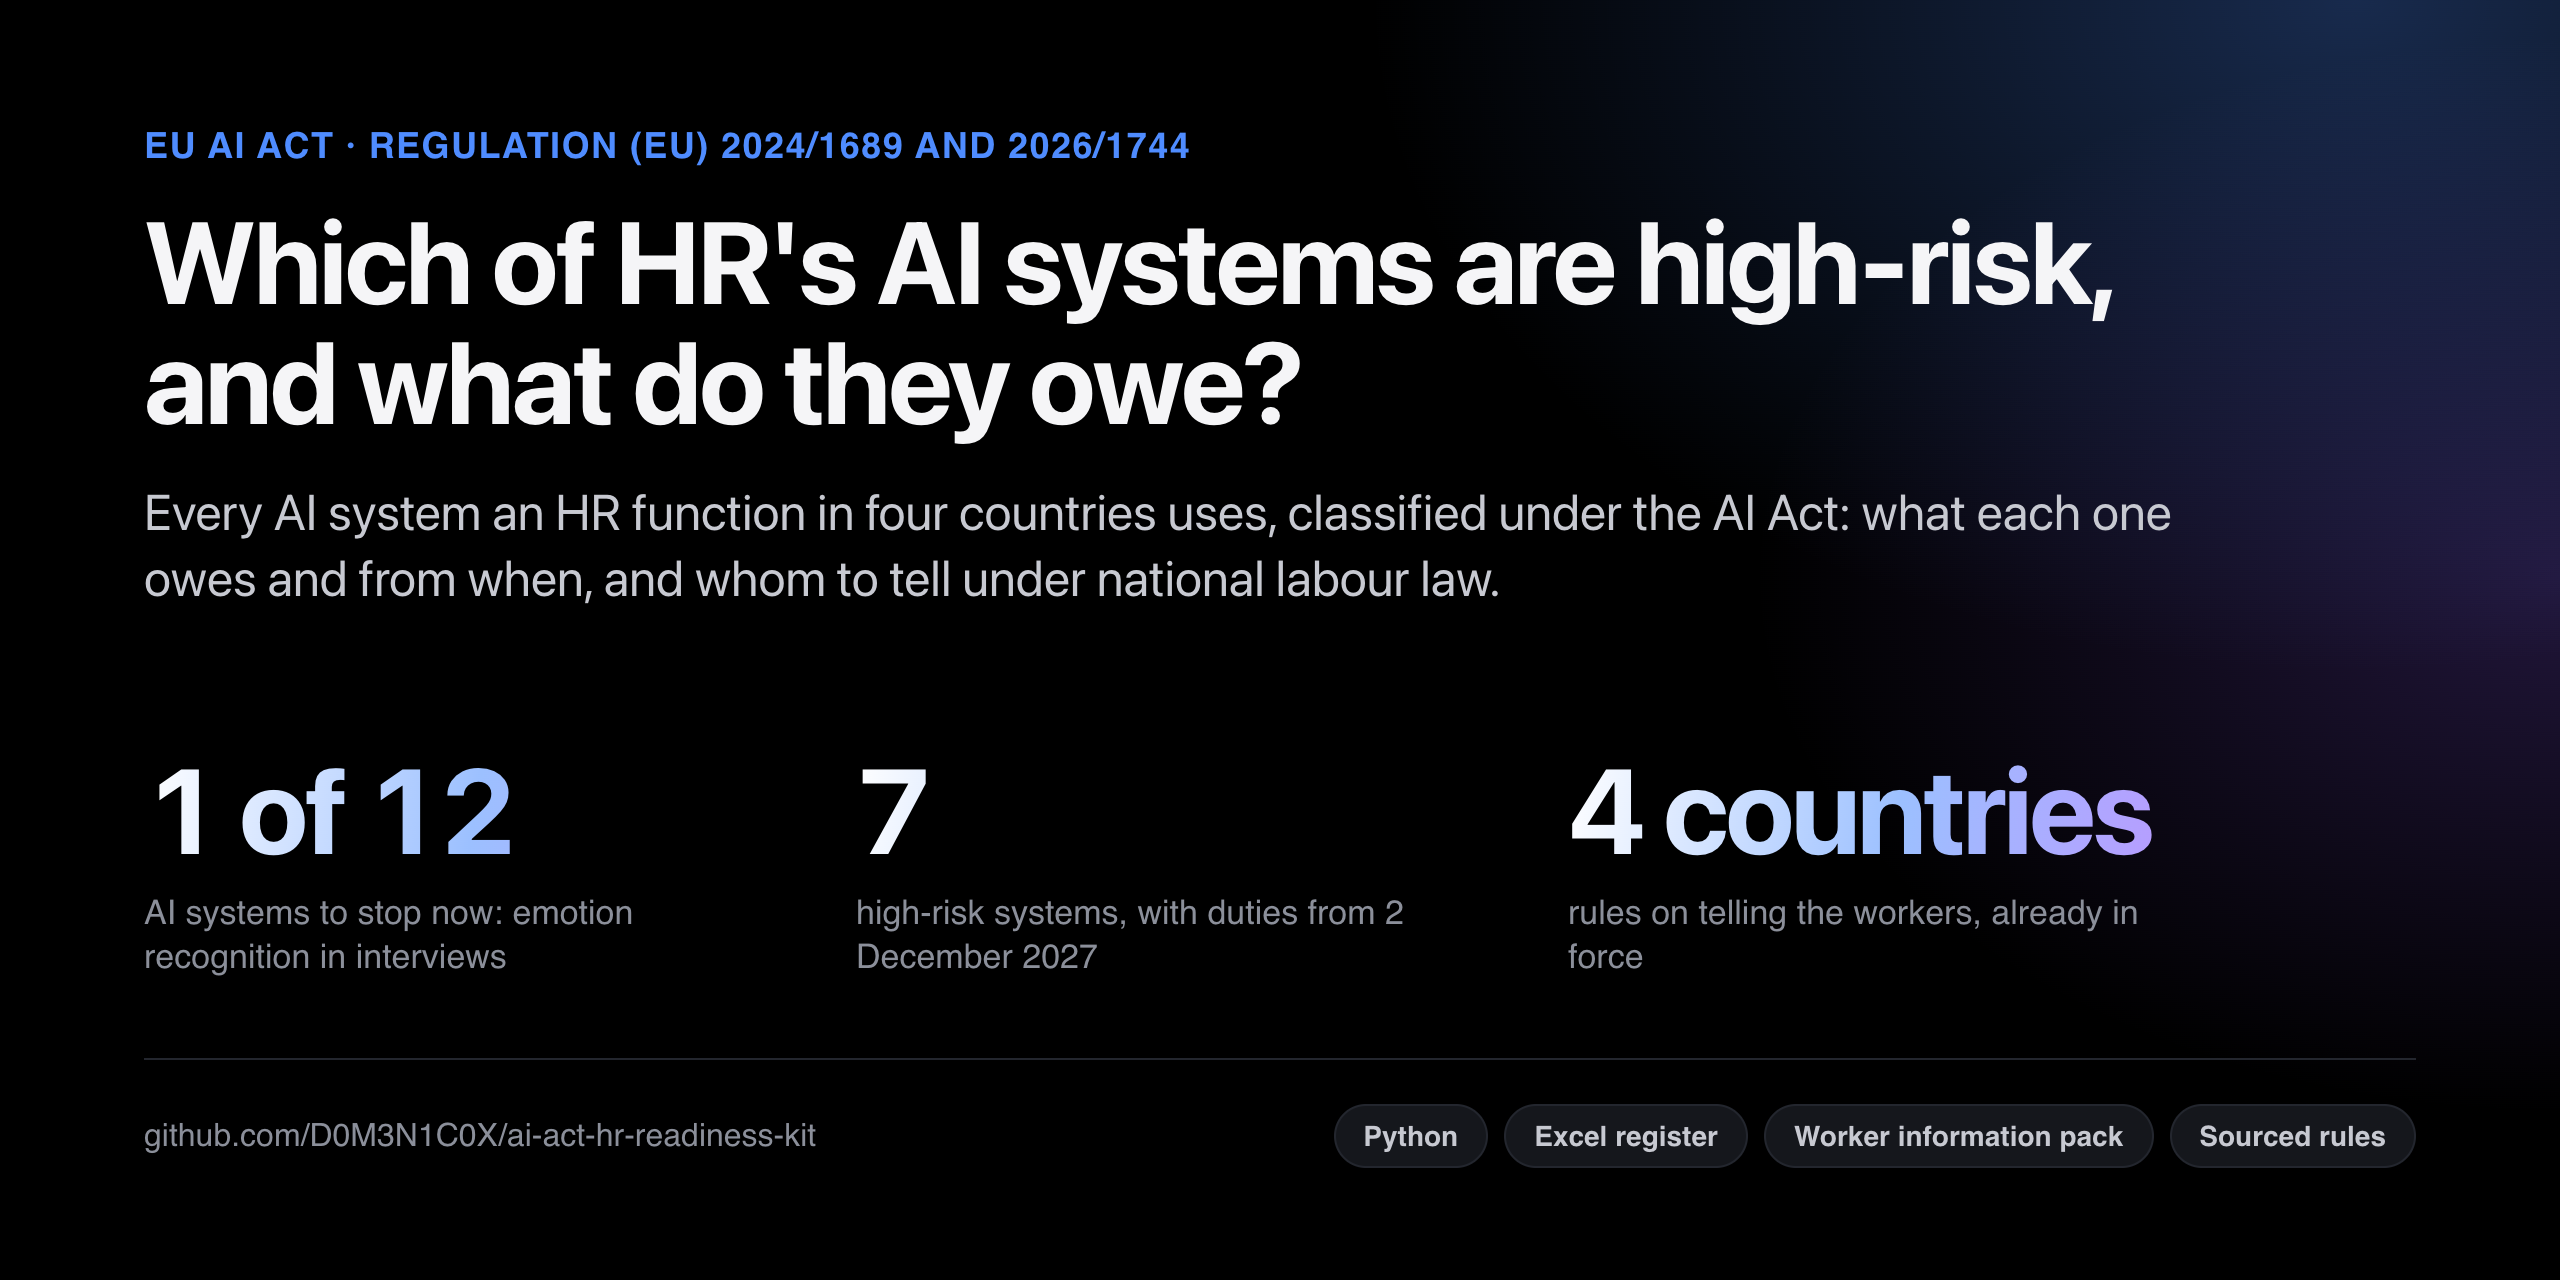
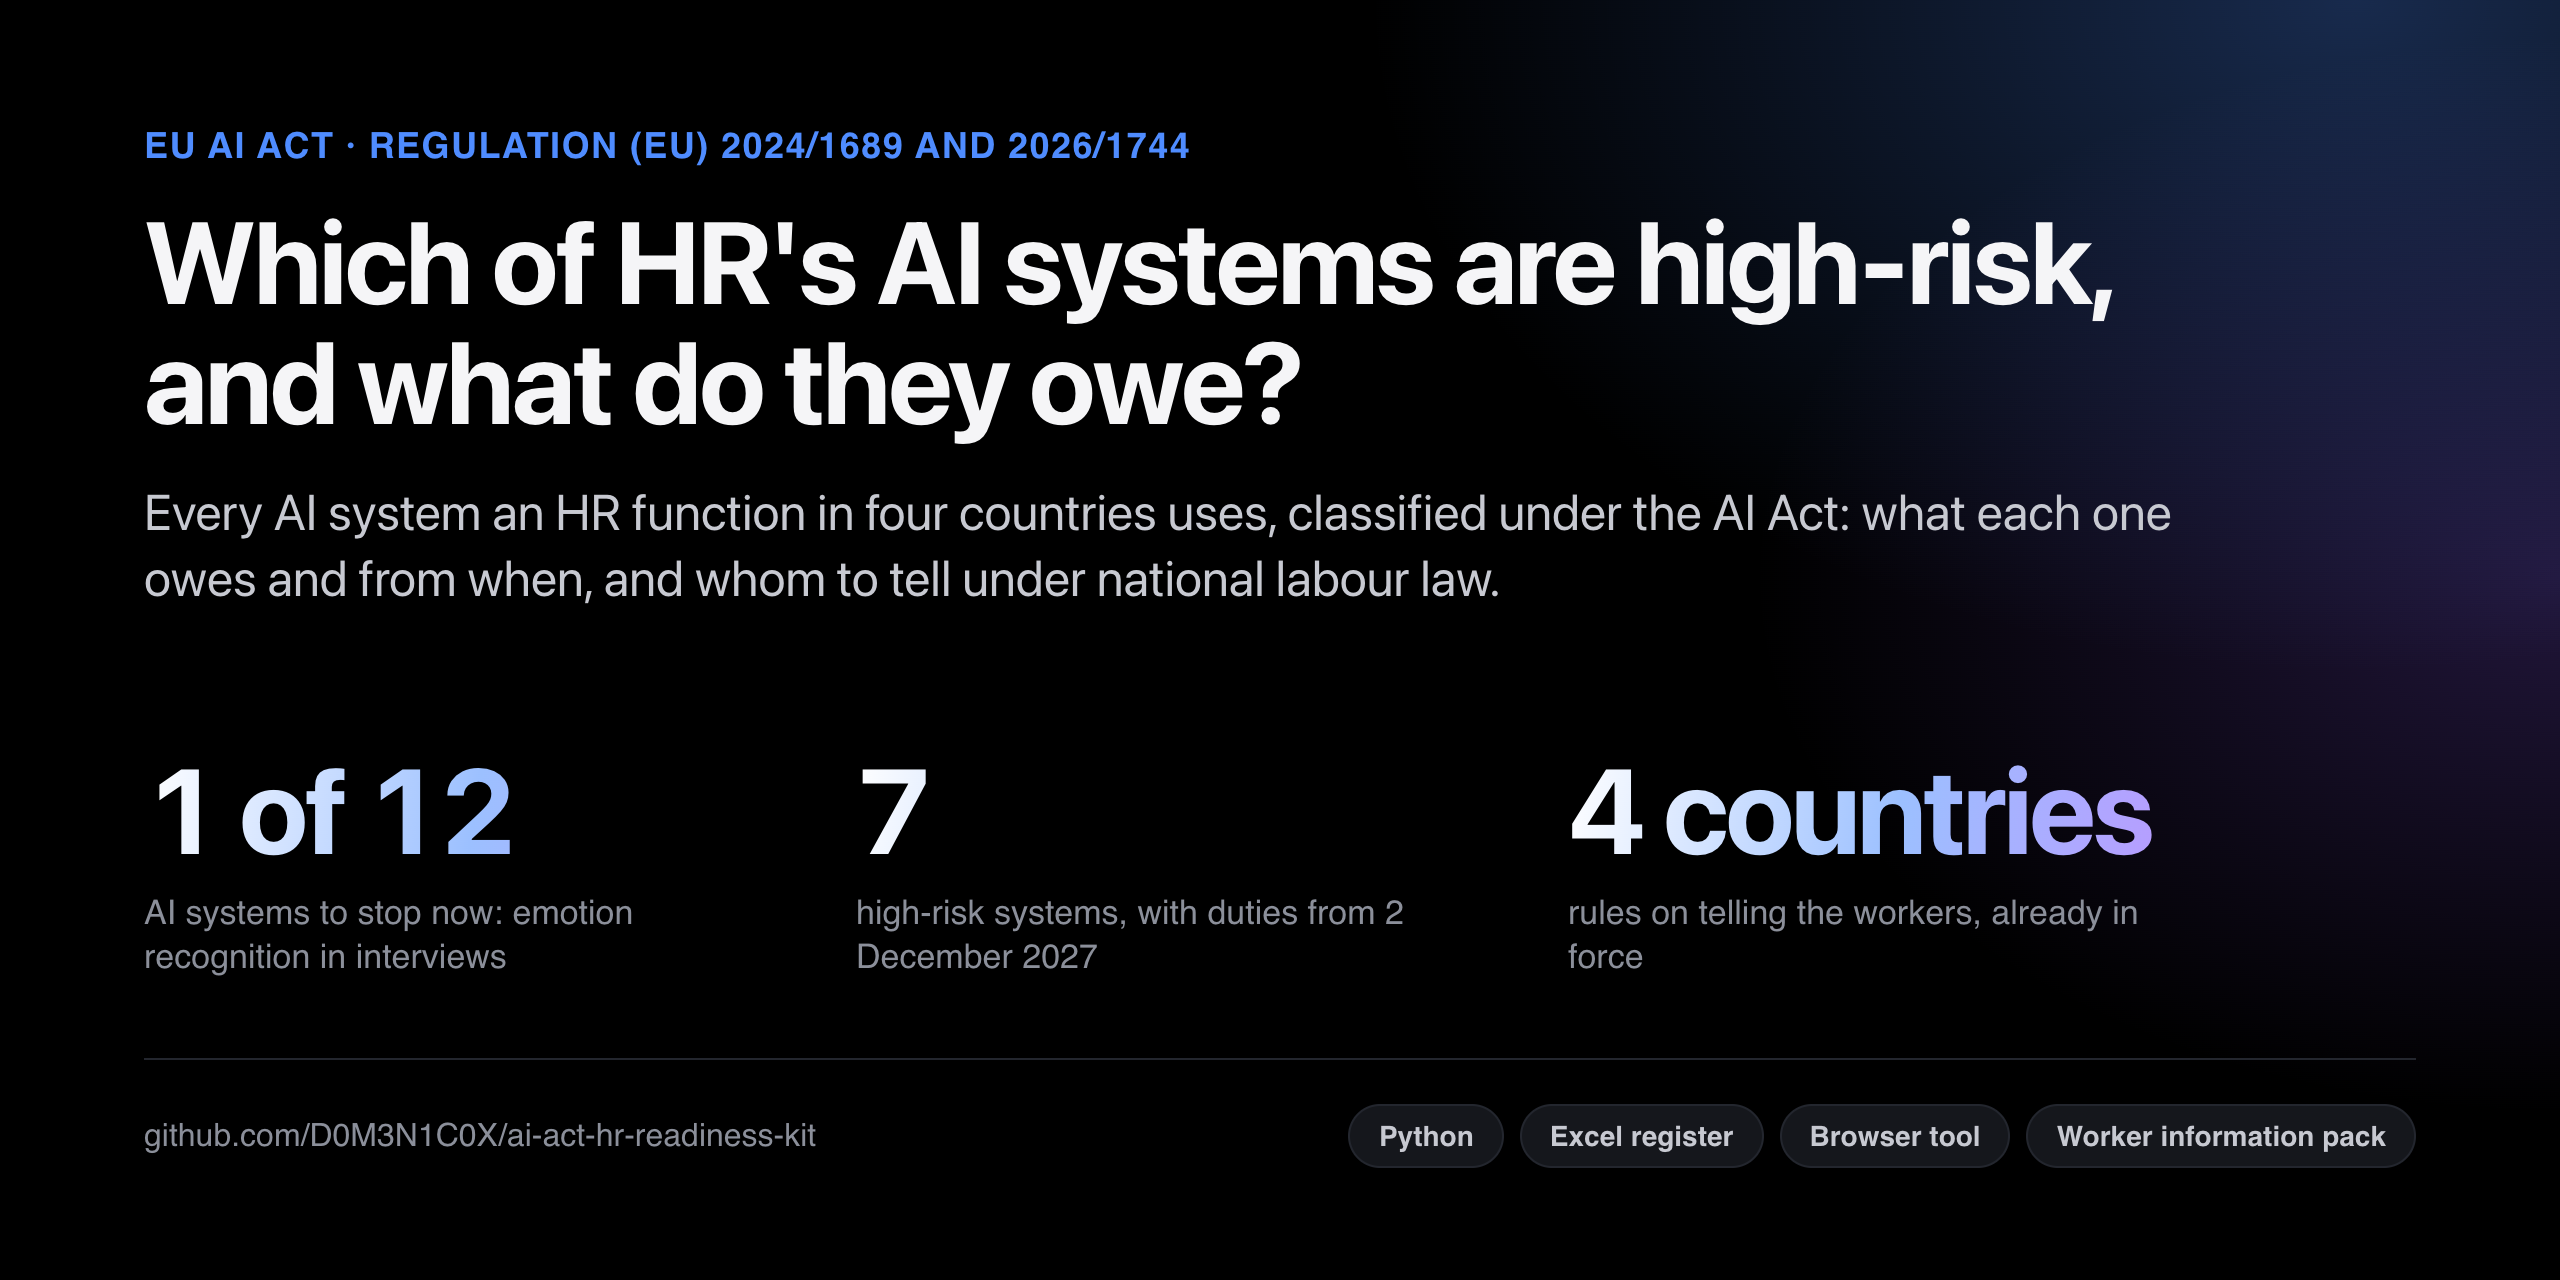
README: the browser tool in motion

Changed region(s): [[0.5, 0.8438, 0.9375, 0.9375]]

diff --git a/README.md b/README.md
@@ -49,6 +49,8 @@ The same register runs in the browser. Answer plain questions about each AI syst
 reason, the obligations with their dates, and the national rules on telling the workers, and the result downloads as
 an Excel workbook. English and Italian. **Nothing leaves the computer.**
 
+<p align="center"><a href="https://d0m3n1c0x.github.io/ai-act-hr-readiness-kit/tool/"><img alt="The browser tool on the twelve sample systems: the register with each class and its reason, what applies when, and whom to tell in each country." src="site-assets/tool.webp" width="100%"></a></p>
+
 ## What you get
 
 | Deliverable | For | What is in it |
